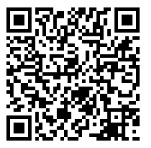
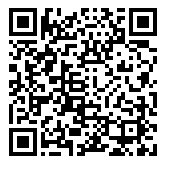
Ajustes de QRCodes

diff --git a/src/app/modules/home/home.component.ts b/src/app/modules/home/home.component.ts
@@ -14,11 +14,11 @@ import { ProductService } from 'src/app/shared/services/product.service';
 export class HomeComponent {
   switchVar: string = 'command';
   // qrDataFill: Object = {
-  //   "id": "5",
-  //   "name": "To em Belle",
-  //   "lat": "-12.969229",
-  //   "lng": "-38.436642",
-  //   "mesa": "3"
+  //   "id": "3",
+  //   "name": "Zurca",
+  //   "lat": "-12.969416",
+  //   "lng": "-38.436602",
+  //   "mesa": "25"
   // };
 
   constructor(public appController: AppController,
